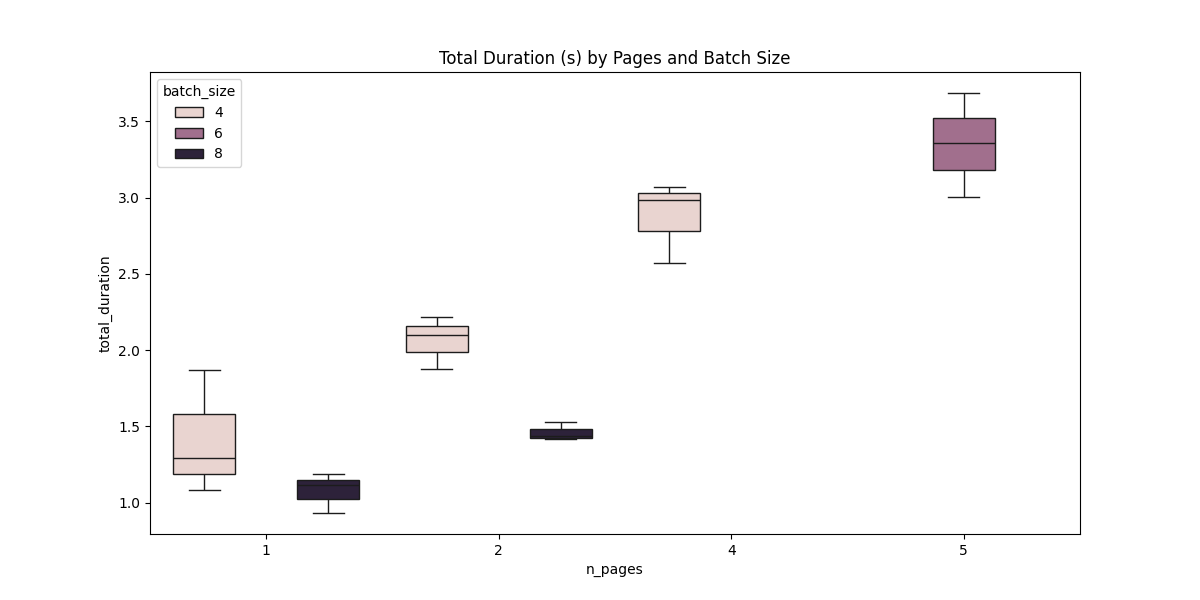
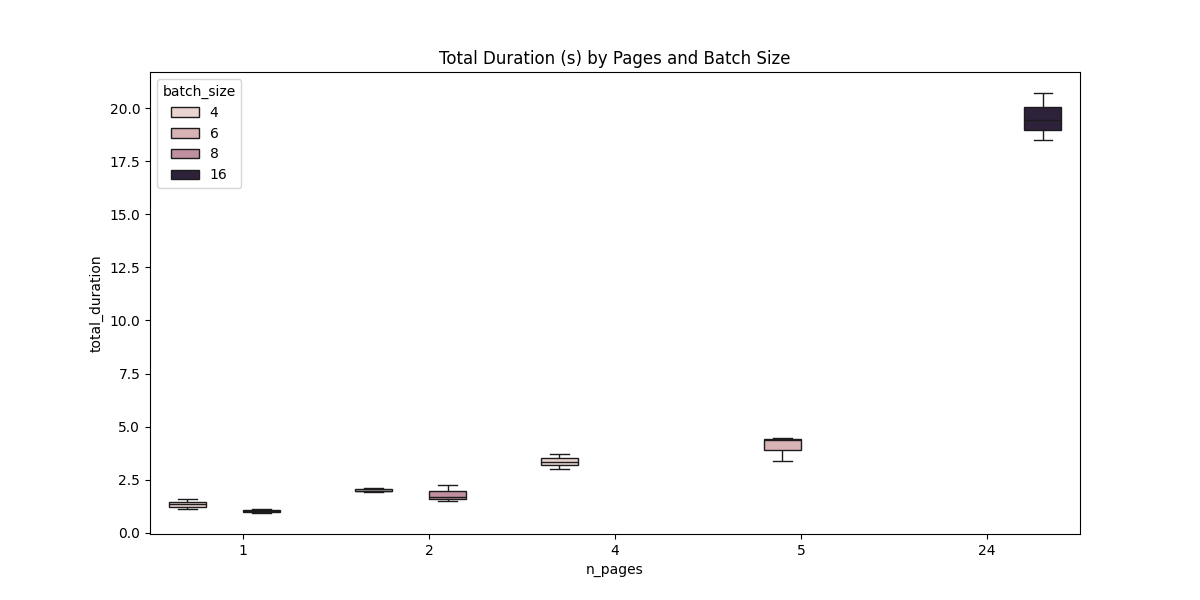
fix[comms] fire and forget gather

diff --git a/ecosystem.config.js b/ecosystem.config.js
@@ -4,45 +4,45 @@ const PROJECT_NAME = `test_${RANDOM_SUFFIX}`;
 
 module.exports = {
     apps: [
-        // {
-        //     name: "TM1",
-        //     script: "neurons/miner.py",
-        //     interpreter: "python3",
-        //     env: {
-        //         ...process.env,
-        //         PROJECT_NAME: PROJECT_NAME
-        //     },
-        //     args: `--wallet.name Bistro --wallet.hotkey M1 --device cuda:3 --subtensor.network ws://127.0.0.1:9945 --netuid 1 --use_wandb --project "${PROJECT_NAME}"`
-        // },
-        // {
-        //     name: "TM2",
-        //     script: "neurons/miner.py",
-        //     interpreter: "python3",
-        //     env: {
-        //         ...process.env,
-        //         PROJECT_NAME: PROJECT_NAME
-        //     },
-        //     args: `--wallet.name Bistro --wallet.hotkey M2 --device cuda:1 --subtensor.network ws://127.0.0.1:9945 --netuid 1 --use_wandb --project "${PROJECT_NAME}"`
-        // },
-        // {
-        //     name: "TV1",
-        //     script: "neurons/validator.py",
-        //     interpreter: "python3",
-        //     env: {
-        //         ...process.env,
-        //         PROJECT_NAME: PROJECT_NAME
-        //     },
-        //     args: `--wallet.name Bistro --wallet.hotkey V1 --device cuda:2 --subtensor.network ws://127.0.0.1:9945 --netuid 1 --use_wandb --project "${PROJECT_NAME}" --store-gathers`
-        // },
         {
-            name: "TA1",
-            script: "scripts/analyser.py",
+            name: "TM1",
+            script: "neurons/miner.py",
             interpreter: "python3",
             env: {
                 ...process.env,
                 PROJECT_NAME: PROJECT_NAME
             },
-            args: `--device cuda:4`
+            args: `--wallet.name Bistro --wallet.hotkey M1 --device cuda:3 --subtensor.network ws://127.0.0.1:9945 --netuid 1 --use_wandb --project "${PROJECT_NAME}"`
+        },
+        {
+            name: "TM2",
+            script: "neurons/miner.py",
+            interpreter: "python3",
+            env: {
+                ...process.env,
+                PROJECT_NAME: PROJECT_NAME
+            },
+            args: `--wallet.name Bistro --wallet.hotkey M2 --device cuda:1 --subtensor.network ws://127.0.0.1:9945 --netuid 1 --use_wandb --project "${PROJECT_NAME}"`
+        },
+        {
+            name: "TV1",
+            script: "neurons/validator.py",
+            interpreter: "python3",
+            env: {
+                ...process.env,
+                PROJECT_NAME: PROJECT_NAME
+            },
+            args: `--wallet.name Bistro --wallet.hotkey V1 --device cuda:2 --subtensor.network ws://127.0.0.1:9945 --netuid 1 --use_wandb --project "${PROJECT_NAME}" --store-gathers`
         }
+        // {
+        //     name: "TA1",
+        //     script: "scripts/analyser.py",
+        //     interpreter: "python3",
+        //     env: {
+        //         ...process.env,
+        //         PROJECT_NAME: PROJECT_NAME
+        //     },
+        //     args: `--device cuda:4`
+        // }
     ]
 } 

diff --git a/src/tplr/comms.py b/src/tplr/comms.py
@@ -269,7 +269,7 @@ class Comms(ChainManager):
 
             # Handle PyTorch files
             file_size = os.path.getsize(file_path)
-            multipart_threshold = 100 * 1024 * 1024  # 100MB
+            multipart_threshold = 5 * 1024 * 1024 * 1024  # 5GB
 
             async with self.session.create_client(
                 "s3",
@@ -806,39 +806,50 @@ class Comms(ChainManager):
 
             # Store raw gradients if enabled
             if store_gathers:
-                try:
-                    gradient_data = {
-                        "state_dict": {
-                            k: v.cpu().numpy() for k, v in state_dict_resp.items()
-                        },
-                        "metadata": {
-                            "uid": uid,
-                            "window": window,
-                            "global_step": global_step_resp,
-                            "timestamp": time.time(),
-                            "version": __version__,
-                        },
-                    }
 
-                    # Create temporary file
-                    temp_file = os.path.join(
-                        self.temp_dir, f"gradient_{uid}_{window}_{global_step}.npz"
-                    )
+                async def store_gradient_task(
+                    self, state_dict_resp, uid, window, global_step_resp
+                ):
                     try:
-                        np.savez_compressed(temp_file, **gradient_data)
-                        key = f"gathers/{__version__}/{uid}/{window}/{global_step}.npz"
+                        gradient_data = {
+                            "state_dict": {
+                                k: v.cpu().numpy() for k, v in state_dict_resp.items()
+                            },
+                            "metadata": {
+                                "uid": uid,
+                                "window": window,
+                                "global_step": global_step_resp,
+                                "timestamp": time.time(),
+                                "version": __version__,
+                            },
+                        }
 
-                        await self.s3_put_object(
-                            key=key, file_path=temp_file, bucket=self.bucket
+                        # Create temporary file
+                        temp_file = os.path.join(
+                            self.temp_dir, f"gradient_{uid}_{window}_{global_step}.npz"
                         )
-                    finally:
-                        if os.path.exists(temp_file):
-                            os.remove(temp_file)
+                        try:
+                            np.savez_compressed(temp_file, **gradient_data)
+                            key = f"gathers/{__version__}/{uid}/{window}/{global_step}.npz"
 
-                except Exception as e:
-                    tplr.logger.error(
-                        f"Failed to store gradient from UID {uid}: {str(e)}"
+                            await self.s3_put_object(
+                                key=key, file_path=temp_file, bucket=self.bucket
+                            )
+                        finally:
+                            if os.path.exists(temp_file):
+                                os.remove(temp_file)
+
+                    except Exception as e:
+                        tplr.logger.error(
+                            f"Failed to store gradient from UID {uid}: {str(e)}"
+                        )
+
+                # Fire and forget the storage task
+                asyncio.create_task(
+                    store_gradient_task(
+                        self, state_dict_resp, uid, window, global_step_resp
                     )
+                )
 
             # Normalize each gradient value individually
             normalized_dict = {}

diff --git a/scripts/delete_gather.py b/scripts/delete_gather.py
@@ -7,7 +7,7 @@
 import os
 from pathlib import Path
 from dotenv import load_dotenv
-
+import argparse
 
 # Find and load the correct .env file
 env_path = Path(__file__).parent.parent / ".env"
@@ -16,7 +16,6 @@ if not env_path.exists():
 
 # Load environment variables before any other imports
 load_dotenv(env_path, override=True)
-
 
 import sys
 import asyncio
@@ -29,8 +28,8 @@ sys.path.append(os.path.dirname(os.path.dirname(os.path.abspath(__file__))))
 import tplr
 
 
-async def cleanup_bucket():
-    """Delete objects in the R2 bucket that are in the 'gathers' directory"""
+async def cleanup_bucket(version: str):
+    """Delete objects in the R2 bucket that are in the 'gathers/<version>' directory"""
     # Load environment variables
     load_dotenv()
 
@@ -63,20 +62,21 @@ async def cleanup_bucket():
         aws_secret_access_key=secret_access_key,
         config=tplr.config.client_config,
     ) as client:
-        logger.info("Listing objects in gathers directory...")
+        prefix = f"gathers/{version}/"
+        logger.info(f"Listing objects in {prefix} directory...")
 
         # Use paginator to handle buckets with >1000 objects
         paginator = client.get_paginator("list_objects_v2")
         objects_to_delete = []
 
         try:
-            async for page in paginator.paginate(Bucket=account_id, Prefix="gathers/"):
+            async for page in paginator.paginate(Bucket=account_id, Prefix=prefix):
                 if "Contents" in page:
                     filtered_objects = [{"Key": obj["Key"]} for obj in page["Contents"]]
                     objects_to_delete.extend(filtered_objects)
 
             if not objects_to_delete:
-                logger.info("No files found in gathers directory")
+                logger.info(f"No files found in {prefix} directory")
                 return
 
             # Delete objects in batches of 1000 (S3 limit)
@@ -97,7 +97,7 @@ async def cleanup_bucket():
                         )
 
             logger.success(
-                f"Successfully deleted {len(objects_to_delete)} files from gathers directory"
+                f"Successfully deleted {len(objects_to_delete)} files from {prefix} directory"
             )
 
         except Exception as e:
@@ -106,5 +106,11 @@ async def cleanup_bucket():
 
 
 if __name__ == "__main__":
-    logger.info("Starting cleanup of gathers directory...")
-    asyncio.run(cleanup_bucket())
+    parser = argparse.ArgumentParser(
+        description="Delete gathers for a specific version"
+    )
+    parser.add_argument("version", type=str, help='Version to delete (e.g., "0.2.14")')
+    args = parser.parse_args()
+
+    logger.info(f"Starting cleanup of gathers/{args.version} directory...")
+    asyncio.run(cleanup_bucket(args.version))

diff --git a/tests/test_dataset_equivalence.py b/tests/test_dataset_equivalence.py
@@ -63,7 +63,7 @@ async def test_dataset_equivalence():
     batch_size = 2
     sequence_length = 128
     n_pages = 2
-    seed = "test-equivalence-seed"
+    seed = 255
     offset = 0
 
     # Load tokenizer

diff --git a/scripts/benchmarks/benchmark_parquet_loader.py b/scripts/benchmarks/benchmark_parquet_loader.py
@@ -185,6 +185,7 @@ async def main():
         (2, 8, 512),
         (4, 4, 512),
         (5, 6, 2048),
+        (24, 16, 2048),
     ]
 
     for n_pages, batch_size, sequence_length in configs:

diff --git a/src/tplr/__init__.py b/src/tplr/__init__.py
@@ -20,7 +20,7 @@
 # mypy: ignore-errors
 # type: ignore
 
-__version__ = "0.2.14"
+__version__ = "0.2.15"
 
 # Import package.
 from .chain import *
